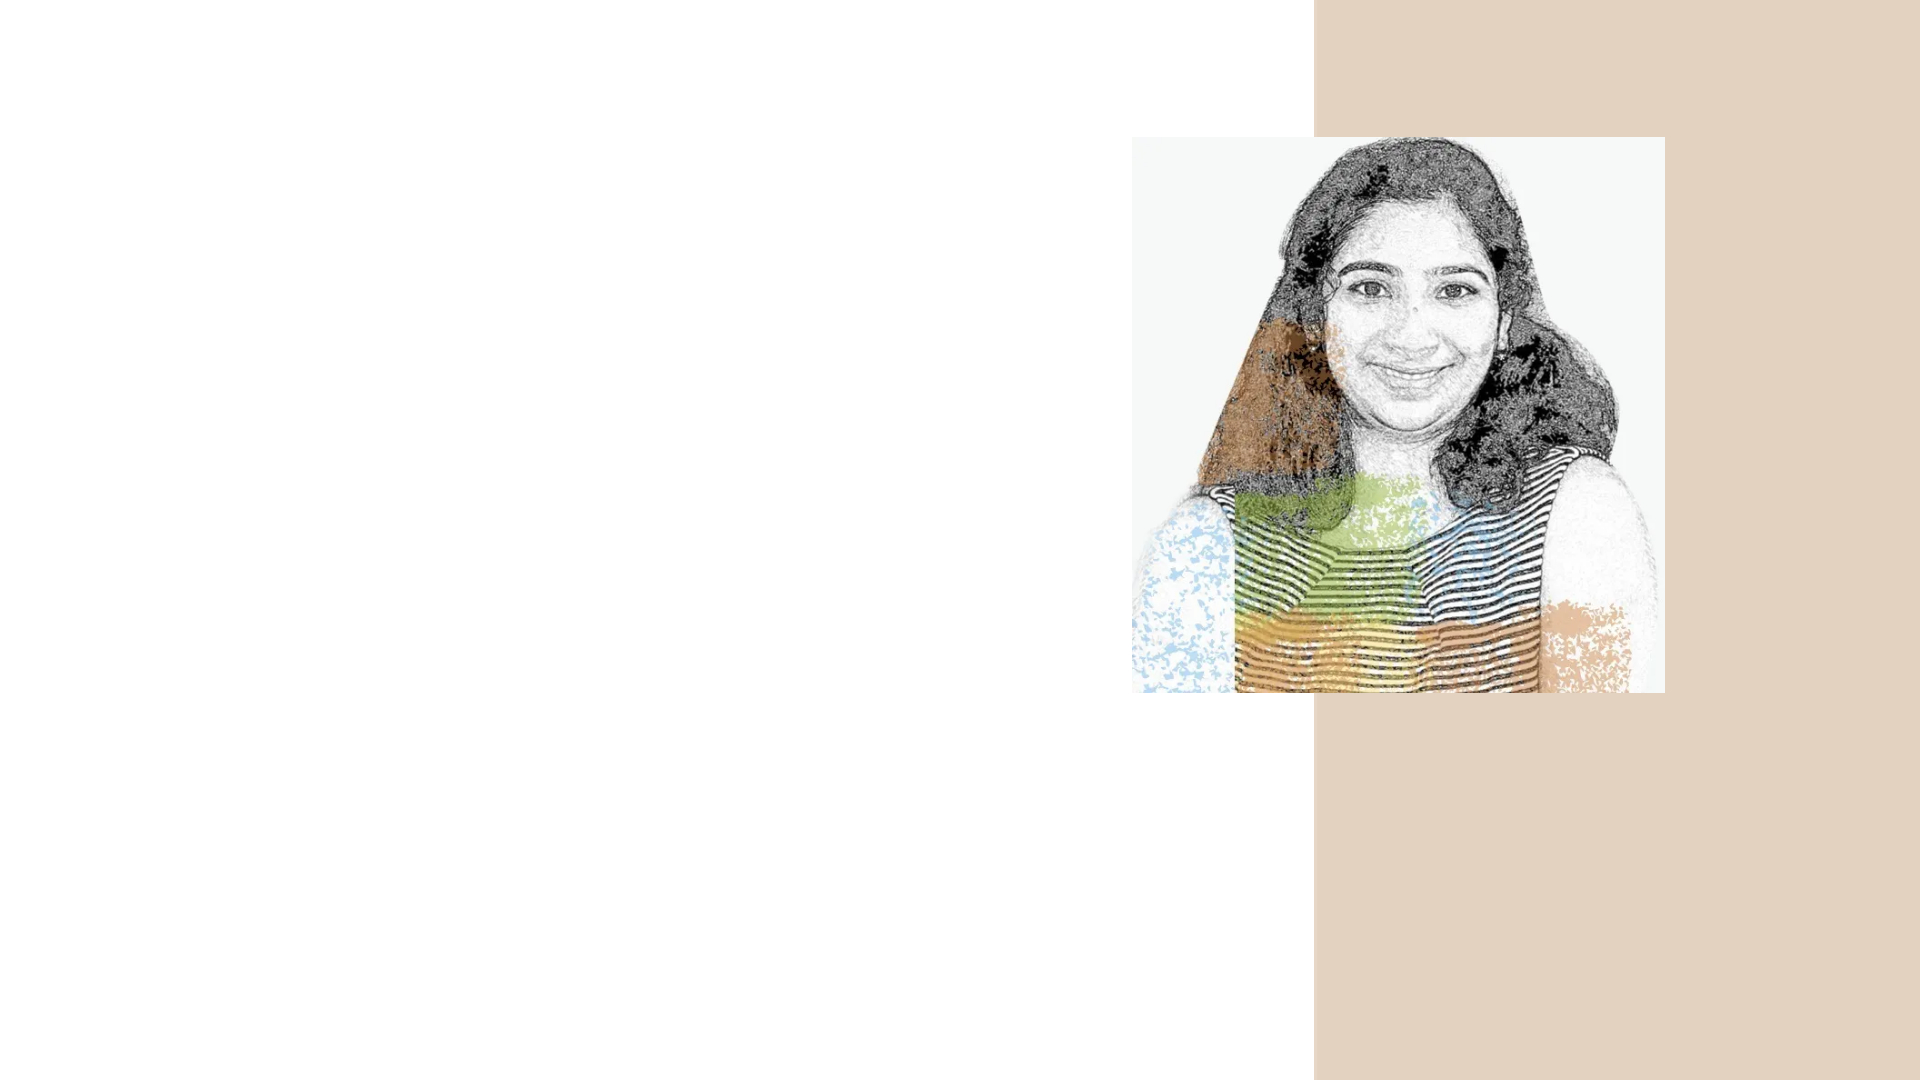
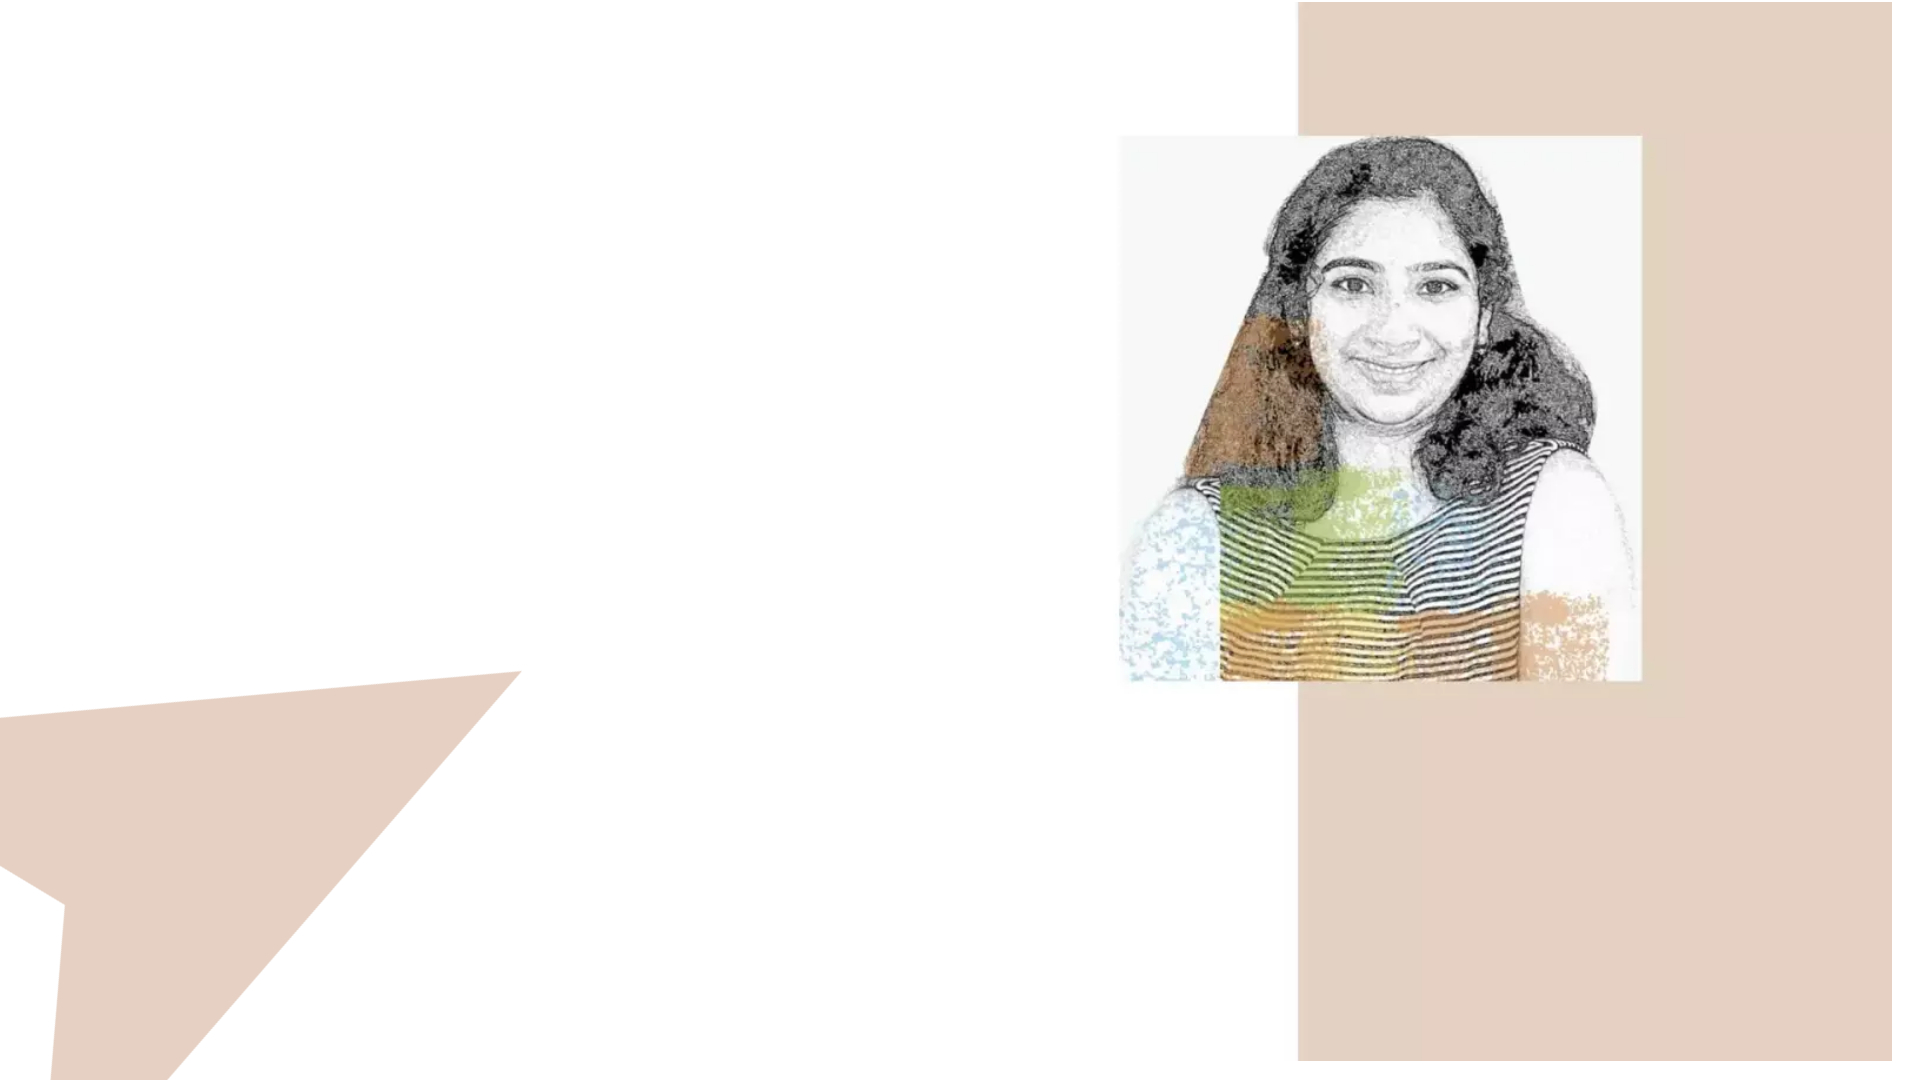
update about me

Changed region(s): [[0.5625, 0.0, 1.0, 1.0], [0.0, 0.6111, 0.2812, 1.0], [0.6562, 0.0, 0.6875, 0.1222]]

diff --git a/index.html b/index.html
@@ -46,42 +46,8 @@
                     </div>
                     <!--End of Logo-->
 
-                    <aside>
-
-                        <!--Social Icons in Header-->
-                        <ul class="social-icons">
-                            <li>
-                                <a target="_blank" title="Facebook" href="https://www.facebook.com/username">
-                                    <i class="fa fa-facebook fa-1x"></i><span>Facebook</span>
-                                </a>
-                            </li>
-                            <li>
-                                <a target="_blank" title="Google+" href="http://google.com/+username">
-                                    <i class="fa fa-google-plus fa-1x"></i><span>Google+</span>
-                                </a>
-                            </li>
-                            <li>
-                                <a target="_blank" title="Twitter" href="http://www.twitter.com/username">
-                                    <i class="fa fa-twitter fa-1x"></i><span>Twitter</span>
-                                </a>
-                            </li>
-                            <li>
-                                <a target="_blank" title="Instagram" href="http://www.instagram.com/username">
-                                    <i class="fa fa-instagram fa-1x"></i><span>Instagram</span>
-                                </a>
-                            </li>
-                            <li>
-                                <a target="_blank" title="behance" href="http://www.behance.net">
-                                    <i class="fa fa-behance fa-1x"></i><span>Behance</span>
-                                </a>
-                            </li>
-                        </ul>
-                        <!--End of Social Icons in Header-->
-
-                    </aside>
-
                     <!--Main Navigation-->
-                    <nav id="nav-main">
+               <!--     <nav id="nav-main">
                         <ul>
                             <li>
                                 <a href="#banner">Home</a>
@@ -89,23 +55,9 @@
                             <li>
                                 <a href="#about">About</a>
                             </li>
-                            <li>
-                                <a href="#gallery">Gallery</a>
-                            </li>
-                            <li>
-                                <a href="#services">Services</a>
-                            </li>
-                            <li>
-                                <a href="#testimonials">Testimonials</a>
-                            </li>
-                            <li>
-                                <a href="#clients">Clients</a>
-                            </li>
-                            <li>
-                                <a href="#pricing">Pricing</a>
-                            </li>
                         </ul>
                     </nav>
+                    -->
                     <!--End of Main Navigation-->
 
                     <div id="nav-trigger"><span></span></div>
@@ -126,13 +78,119 @@
                 </div>
 
                 <!--Call to Action-->
-                <a href="#" class="button">Open to work</a>
-                <!--End Call to Action-->
+                <a href="#about" class="button">Check my work samples</a>
+                <a href="#about" class="button">About me </a>                <!--End Call to Action-->
+                <div id="reach-me">
+                    <ul class="social-icons">
+                        <li>
+                            Reach me through:
+                        </li>
+
+                        <li>
+                            <a target="_blank"  title="Email" href="mailto:premaneel46@gmail.com">
+                                <i class="fa fa-at fa-2x"></i><span>Linkedin</span>
+                            </a>
+                        </li>
+                        <li>
+                          [/]
+                        </li>
+                    <li>
+                        <a target="_blank"  title="LinkedIn" href="https://www.linkedin.com/in/prema-neelakantan-72a803125/">
+                            <i class="fa fa-linkedin-square fa-2x"></i><span>Linkedin</span>
+                        </a>
+                    </li>
+
+                </ul>
+            </div>
+            </div>
+        </div>
+       <!--End of Row-->
+    </header>
+
+    <main id="content">
+
+        <!--Introduction-->
+        <section id="about" class="introduction scrollto">
+
+            <div class="row clearfix">
+
+                <div class="col-3">
+                    <div class="section-heading">
+                        <h3>SUCCESS</h3>
+                        <h2 class="section-title">How would I approach testing</h2>
+                        <p class="section-subtitle"> The critical role that testing plays in ensuring the success of software applications. As a QAE, I  bring unparalleled expertise in both automation and usability testing,  with comprehensive solutions to elevate the quality your software.</p>
+                    </div>
+
+                </div>
+
+                <div class="col-2-3">
+
+                    <!--Icon Block-->
+
+                    <!--End of Icon Block-->
+
+                    <!--Icon Block-->
+                    <div class="col-2 icon-block icon-top wow fadeInUp" data-wow-delay="0.3s">
+                        <!--Icon-->
+                        <div class="icon">
+                            <i class="fa fa-bolt fa-2x"></i>
+                        </div>
+                        <!--Icon Block Description-->
+                        <div class="icon-block-description">
+                            <h4>Expertise</h4>
+                            <p>My proficiency goes beyond the surface. I have cultivated a deep understanding of the intricacies of automation and usability testing, empowering me to address the most complex testing challenges with confidence.</p>
+                        </div>
+                    </div>
+                    <!--End of Icon Block-->
+
+                    <!--Icon Block-->
+                    <div class="col-2 icon-block icon-top wow fadeInUp" data-wow-delay="0.5s">
+                        <!--Icon-->
+                        <div class="icon">
+                            <i class="fa fa-tablet fa-2x"></i>
+                        </div>
+                        <!--Icon Block Description-->
+                        <div class="icon-block-description">
+                            <h4>Customized Solutions:</h4>
+                            <p>I don't believe in generic solutions. Instead, I take the time to understand the intricacies of your project, its objectives, and the unique challenges it presents. This personalized approach allows me to craft a testing strategy that resonates with the individual characteristics of your software.</p>
+                        </div>
+                    </div>
+                    <!--End of Icon Block-->
+
+                    <!--Icon Block-->
+                    <div class="col-2 icon-block icon-top wow fadeInUp" data-wow-delay="0.5s">
+                        <!--Icon-->
+                        <div class="icon">
+                            <i class="fa fa-rocket fa-2x"></i>
+                        </div>
+                        <!--Icon Block Description-->
+                        <div class="icon-block-description">
+                            <h4>Continuous Improvement:</h4>
+                            <p>I stay abreast of the latest industry trends and technologies, continuously refining our testing methodologies to deliver cutting-edge solutions.</p>
+                        </div>
+                    </div>
+                    <!--End of Icon Block-->
+                    <!--Icon Block-->
+                    <div class="col-2 icon-block icon-top wow fadeInUp" data-wow-delay="0.5s">
+                        <!--Icon-->
+                        <div class="icon">
+                            <i class="fa fa-rocket fa-2x"></i>
+                        </div>
+                        <!--Icon Block Description-->
+                        <div class="icon-block-description">
+                            <h4>Dedicated Support: </h4>
+                            <p>Your goals become my guiding principles. I align testing activities with the overarching objectives of your project, be it achieving a seamless user experience, optimizing performance, or ensuring robust security. By keeping your goals at the forefront, I contribute directly to the success of your software.</p>
+                        </div>
+                    </div>
+                    <!--End of Icon Block-->
+
+                </div>
 
             </div>
 
-        </div><!--End of Row-->
-    </header>
+
+        </section>
+    </main>
 </div>
 
 

diff --git a/css/styles.css b/css/styles.css
@@ -116,7 +116,7 @@ a:hover, #header.nav-solid nav a:hover {
 /* Banner Background and Text Colors */
 
 #banner {
-    background: url("../images/prema-bg.jpg") no-repeat center top;
+    background: url("../images/prema-bg2.jpg") no-repeat center top;
     background-size:cover;
 }
 
@@ -646,7 +646,7 @@ section {
 }
 
 #logo img {
-    max-height: 22px;
+
     vertical-align: middle;
     margin-right: 15px;
 }
@@ -819,20 +819,34 @@ section {
     opacity: 1;
 }
 
-/* Social Elements when Solid*/
+/* Socia Elements when Solid*/
+#reach-me{
 
-#header.nav-solid .social-icons a {
-    -webkit-transition: all 0.3s ease-out;
-    -moz-transition: all 0.3s ease-out;
-    -o-transition: all 0.3s ease-out;
-    transition: all 0.3s ease-out;
-    opacity: 0.5;
+}
+.social-icons li{
+    display: inline-block;
+    list-style: none;
+}
+.social-icons {
+    display: inline-block;
+    list-style: none;
 }
 
-#header.nav-solid .social-icons a:hover {
+.social-icons a {
+    display: inline-block;
+    width: 32px;
+    text-align: center;
+}
+
+.social-icons a:hover {
     opacity: 1;
-    color: #e4473c;
 }
+
+.social-icons span {
+    display: none;
+}
+
+
 
 /* Responsive Nav Styling */
 
@@ -957,24 +971,6 @@ nav#nav-mobile a:hover {
     text-align: right;
 }
 
-.social-icons {
-    display: inline-block;
-    list-style: none;
-}
-
-.social-icons a {
-    display: inline-block;
-    width: 32px;
-    text-align: center;
-}
-
-.social-icons a:hover {
-    opacity: 0.7;
-}
-
-.social-icons span {
-    display: none;
-}
 
 #header .social-icons {
     margin-top: 27px;
@@ -2439,7 +2435,7 @@ blockquote {
         padding: 0;
     }
 
-    #header ul.social-icons {
+   .social-icons {
         margin-top: 0;
     }
 
@@ -2560,10 +2556,7 @@ blockquote {
         width: 50%;
     }
 
-    #landing-footer .social-icons {
-        float: right;
-        width: 50%;
-    }
+
 
 }
 
